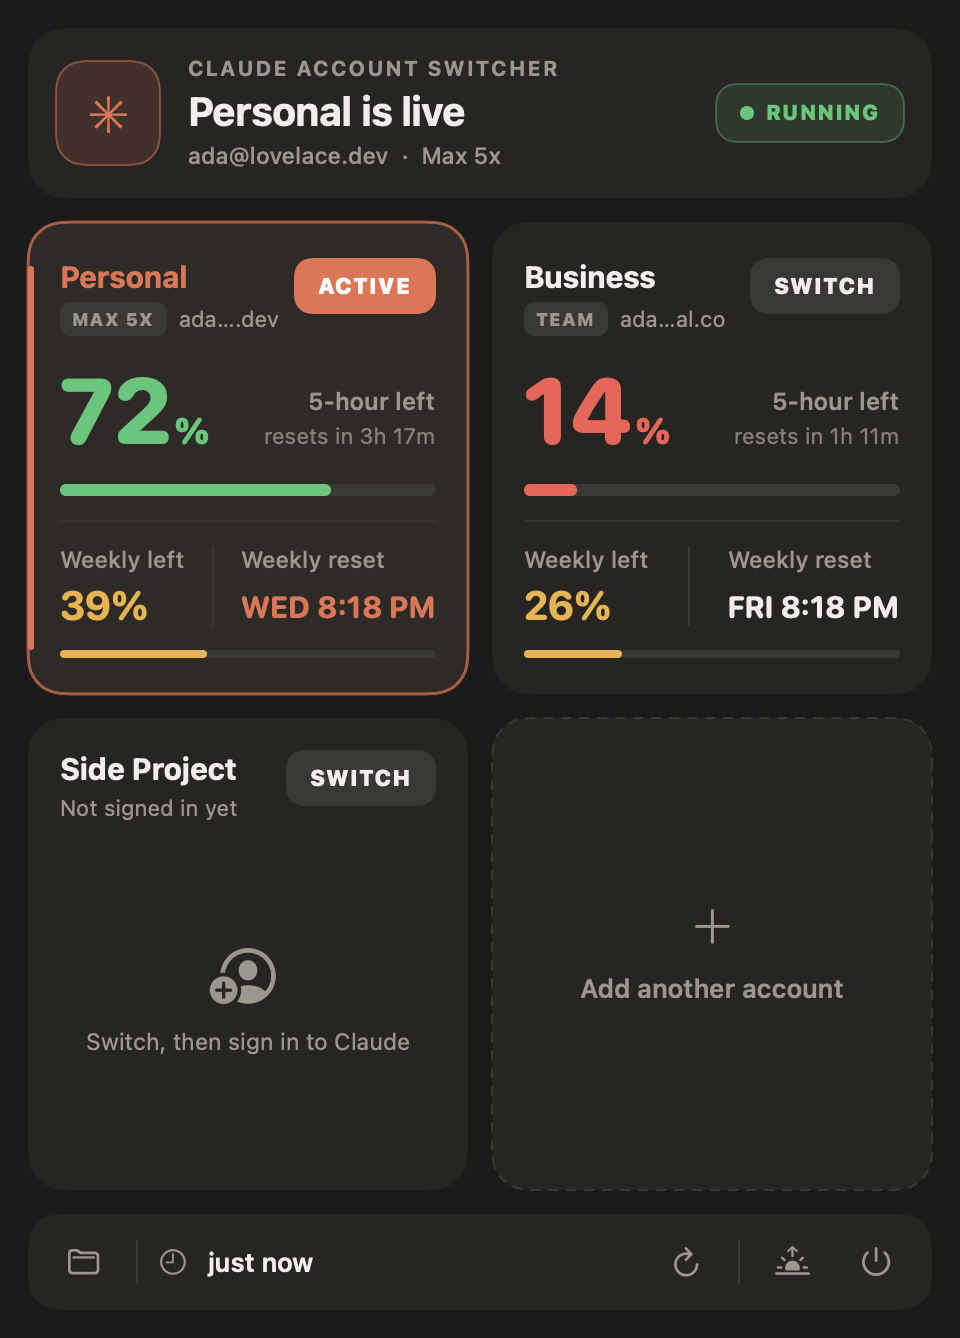
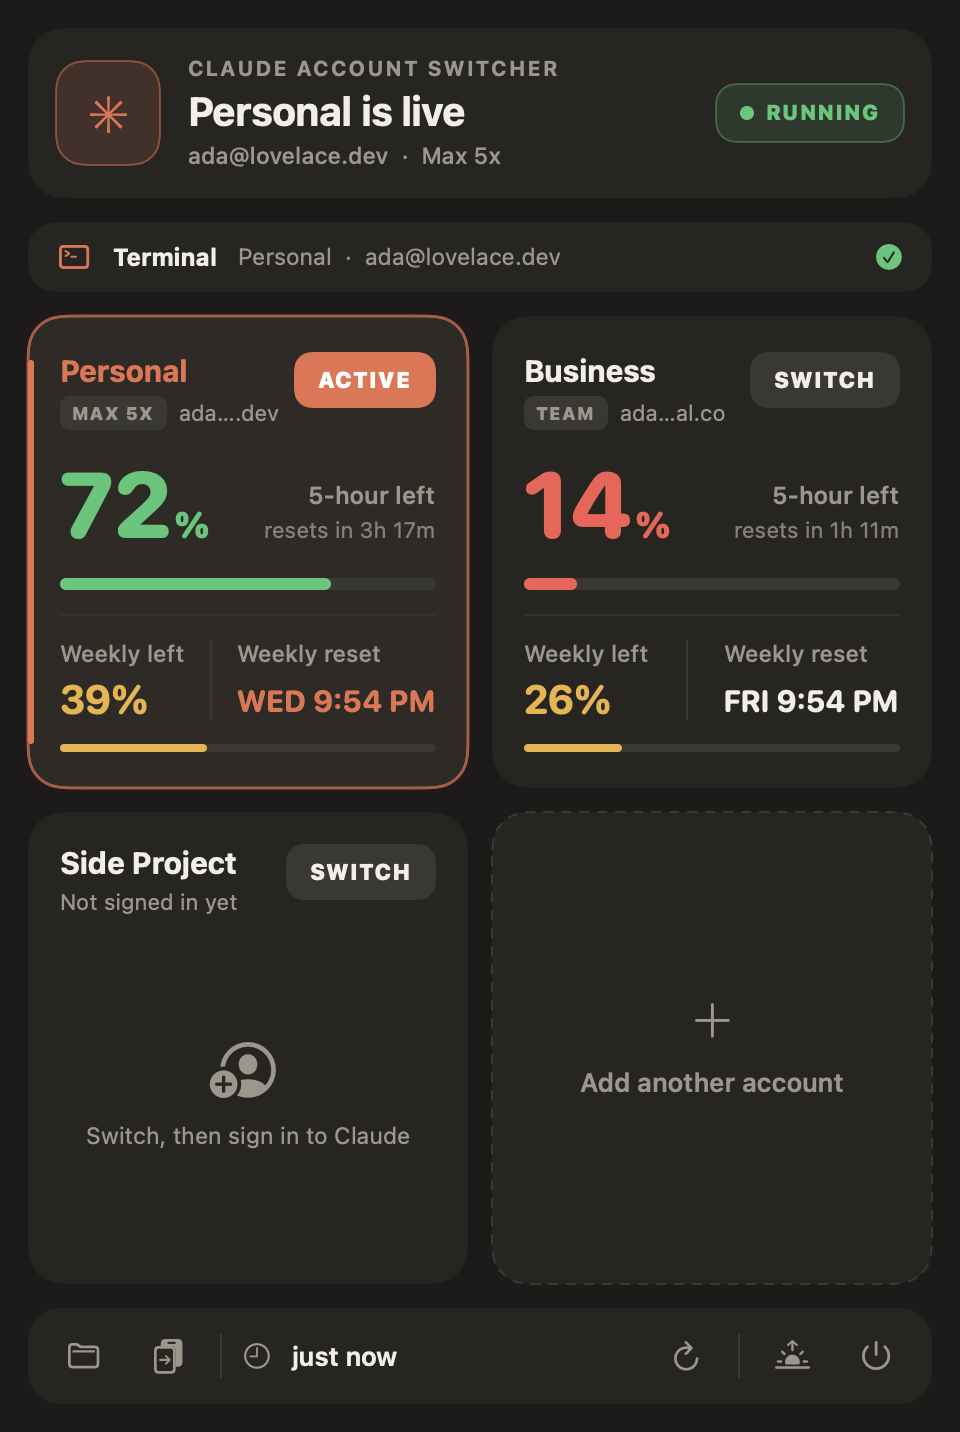
Switch the terminal's claude CLI login along with the desktop app
Park the CLI's claudeAiOauth (keychain) and oauthAccount (~/.claude.json)
per profile in our own keychain item and restore the target's on switch.
MCP server logins in the same keychain item stay shared. Before parking,
check the live login belongs to the profile being left so a still-running
session can't file the wrong account. Adds a terminal row to the panel.

diff --git a/main.swift b/main.swift
@@ -231,6 +231,8 @@ final class Store: ObservableObject {
     @Published var lastRefresh: Date?
     @Published var banner: String?
     @Published var openAtLogin = SMAppService.mainApp.status == .enabled
+    @Published var cliProfile: String?     // profile the terminal `claude` is logged in as
+    @Published var cliEmail: String?
     var onChange: (() -> Void)?
 
     /// Fake accounts for README screenshots — touches no files, keychain or network.
@@ -243,6 +245,8 @@ final class Store: ObservableObject {
                      weeklyOpus: nil, extraEnabled: false, fetchedAt: now)
         }
         current = "Personal"
+        cliProfile = "Personal"
+        cliEmail = "ada@lovelace.dev"
         claudeRunning = true
         lastRefresh = now
         profiles = [
@@ -307,6 +311,7 @@ final class Store: ObservableObject {
                 }
             }
         }
+        refreshCLI()
         lastRefresh = Date()
         onChange?()
     }
@@ -345,10 +350,63 @@ final class Store: ObservableObject {
             banner = "Switch failed: \(error.localizedDescription)"
             return
         }
+        busy = "Moving terminal login…"
+        do { try await switchCLI(to: target) } catch { banner = "Terminal not switched: \(error.localizedDescription)" }
         busy = "Opening Claude…"
         await launchClaude()
         reloadList()
         await refresh()
+    }
+
+    func refreshCLI() {
+        cliEmail = liveOauthAccount()?["emailAddress"] as? String
+        if let saved = (try? String(contentsOf: cliCurrentFile, encoding: .utf8))?
+            .trimmingCharacters(in: .whitespacesAndNewlines), !saved.isEmpty {
+            cliProfile = saved
+        } else {
+            // First run: work out which profile the terminal is on from its email.
+            cliProfile = profiles.first { $0.snapshot?.email != nil && $0.snapshot?.email == cliEmail }?.name
+                ?? (cliEmail == nil ? current : nil)
+            if let p = cliProfile { try? p.write(to: cliCurrentFile, atomically: true, encoding: .utf8) }
+        }
+    }
+
+    /// Parks the terminal's Claude login under its current profile and restores `target`'s
+    /// (or logs the terminal out if `target` has none yet, so `claude /login` can set it up).
+    func switchCLI(to target: String) async throws {
+        refreshCLI()
+        guard let cur = cliProfile else {
+            throw err("Couldn't tell which profile the terminal is logged in as (\(cliEmail ?? "unknown")).")
+        }
+        guard cur != target else { return }
+        var live = readLiveCLICreds() ?? [:]
+        if let oauth = live["claudeAiOauth"] as? [String: Any] {
+            // A still-running `claude` can re-save its old login after a switch. Make sure the
+            // login we're about to park really belongs to `cur` before filing it there.
+            let expected = profiles.first { $0.name == cur }?.snapshot?.email
+            if let tok = oauth["accessToken"] as? String, let expected,
+               let actual = (try? await getJSON("profile", tok))
+                   .flatMap({ ($0["account"] as? [String: Any])?["email"] as? String }),
+               actual != expected {
+                throw err("The terminal is logged in as \(actual), not \(cur) (\(expected)). Quit running `claude` sessions and try again.")
+            }
+            var parked: [String: Any] = ["claudeAiOauth": oauth]
+            parked["oauthAccount"] = liveOauthAccount()
+            try writeKeychain(service: switcherService, account: "cli-\(cur)", json: parked)
+        }
+        let restore = readKeychain(service: switcherService, account: "cli-\(target)")
+        live["claudeAiOauth"] = restore?["claudeAiOauth"]
+        try writeKeychain(service: cliService, account: NSUserName(), json: live)
+        try setLiveOauthAccount(restore?["oauthAccount"] as? [String: Any])
+        try target.write(to: cliCurrentFile, atomically: true, encoding: .utf8)
+        refreshCLI()
+    }
+
+    func moveTerminal(to target: String) async {
+        guard busy == nil else { return }
+        busy = "Moving terminal login…"
+        do { try await switchCLI(to: target) } catch { banner = "Terminal not switched: \(error.localizedDescription)" }
+        busy = nil
     }
 
     /// Copies threads into another profile. If that profile is live and Claude is running,
@@ -386,6 +444,66 @@ func launchClaude() async {
     if let url = NSWorkspace.shared.urlForApplication(withBundleIdentifier: bundleID) {
         _ = try? await NSWorkspace.shared.openApplication(at: url, configuration: .init())
     }
+}
+
+// MARK: - Terminal (Claude Code CLI) login
+//
+// The CLI keeps its login in the keychain item "Claude Code-credentials" (key `claudeAiOauth`,
+// next to MCP server logins under `mcpOAuth`, which stay shared) and the account details in
+// ~/.claude.json `oauthAccount`. Parked logins go in our own keychain item, one per profile.
+// Everything goes through /usr/bin/security, which is how the CLI itself reads the item.
+
+let cliService = "Claude Code-credentials"
+let switcherService = "Claude Switcher"
+let cliCurrentFile = parkDir.appendingPathComponent(".cli-current")
+let claudeJSON = URL(fileURLWithPath: NSHomeDirectory()).appendingPathComponent(".claude.json")
+
+@discardableResult
+func security(_ args: [String], stdin: String? = nil) -> (status: Int32, out: String) {
+    let p = Process()
+    p.executableURL = URL(fileURLWithPath: "/usr/bin/security")
+    p.arguments = args
+    let out = Pipe(), inp = Pipe()
+    p.standardOutput = out
+    p.standardError = Pipe()
+    if stdin != nil { p.standardInput = inp }
+    do { try p.run() } catch { return (-1, "") }
+    if let stdin { inp.fileHandleForWriting.write(Data(stdin.utf8)); try? inp.fileHandleForWriting.close() }
+    let data = out.fileHandleForReading.readDataToEndOfFile()
+    p.waitUntilExit()
+    return (p.terminationStatus, String(decoding: data, as: UTF8.self))
+}
+
+func readKeychain(service: String, account: String) -> [String: Any]? {
+    let r = security(["find-generic-password", "-s", service, "-a", account, "-w"])
+    guard r.status == 0 else { return nil }
+    return try? JSONSerialization.jsonObject(with: Data(r.out.trimmingCharacters(in: .newlines).utf8)) as? [String: Any]
+}
+
+func writeKeychain(service: String, account: String, json: [String: Any]) throws {
+    let hex = try JSONSerialization.data(withJSONObject: json).map { String(format: "%02x", $0) }.joined()
+    let acct = account.replacingOccurrences(of: "\"", with: "")
+    // -i reads the command from stdin so the secret never shows up in `ps`.
+    let r = security(["-i"], stdin: "add-generic-password -U -a \"\(acct)\" -s \"\(service)\" -X \(hex)\n")
+    guard r.status == 0, readKeychain(service: service, account: account) != nil else {
+        throw err("Couldn't save the login to the keychain (\(service)).")
+    }
+}
+
+func readLiveCLICreds() -> [String: Any]? { readKeychain(service: cliService, account: NSUserName()) }
+
+func liveOauthAccount() -> [String: Any]? {
+    ((try? Data(contentsOf: claudeJSON)).flatMap { try? JSONSerialization.jsonObject(with: $0) as? [String: Any] })?["oauthAccount"] as? [String: Any]
+}
+
+func setLiveOauthAccount(_ acct: [String: Any]?) throws {
+    guard var j = try JSONSerialization.jsonObject(with: Data(contentsOf: claudeJSON)) as? [String: Any] else {
+        throw err("Couldn't read ~/.claude.json")
+    }
+    j["oauthAccount"] = acct
+    try JSONSerialization.data(withJSONObject: j, options: [.prettyPrinted, .withoutEscapingSlashes])
+        .write(to: claudeJSON, options: .atomic)
+    try fm.setAttributes([.posixPermissions: 0o600], ofItemAtPath: claudeJSON.path)
 }
 
 // MARK: - Claude Code threads
@@ -536,6 +654,34 @@ struct Header: View {
     }
 }
 
+struct TerminalStrip: View {
+    @ObservedObject var store: Store
+    @State private var hover = false
+    var body: some View {
+        let mismatch = store.cliProfile != store.current
+        HStack(spacing: 10) {
+            Image(systemName: "terminal").font(.system(size: 13, weight: .semibold)).foregroundColor(.claude)
+            Text("Terminal").font(.system(size: 12, weight: .bold)).foregroundColor(.txt)
+            Text(store.cliEmail.map { "\(store.cliProfile ?? "?")  ·  \($0)" }
+                 ?? "\(store.cliProfile ?? "?")  ·  not logged in, run claude /login")
+                .font(.system(size: 11.5)).foregroundColor(.sub).lineLimit(1).truncationMode(.middle)
+            Spacer(minLength: 6)
+            if mismatch {
+                Button { Task { await store.moveTerminal(to: store.current) } } label: {
+                    Text("MOVE TO \(store.current.uppercased())").font(.system(size: 10, weight: .heavy)).tracking(0.5)
+                        .padding(.horizontal, 9).padding(.vertical, 5)
+                        .foregroundColor(.white)
+                        .background(RoundedRectangle(cornerRadius: 7).fill(hover ? Color.claude.opacity(0.85) : .claude))
+                }.buttonStyle(.plain).disabled(store.busy != nil).onHover { hover = $0 }
+            } else {
+                Image(systemName: "checkmark.circle.fill").foregroundColor(.good).help("Terminal matches the desktop app")
+            }
+        }
+        .padding(.horizontal, 14).padding(.vertical, 10)
+        .background(RoundedRectangle(cornerRadius: 14).fill(Color.card))
+    }
+}
+
 struct ProfileCard: View {
     let p: Profile
     let active: Bool
@@ -675,6 +821,7 @@ struct Panel: View {
     var body: some View {
         VStack(spacing: 12) {
             Header(store: store)
+            TerminalStrip(store: store)
             if let b = store.banner {
                 Label(b, systemImage: "exclamationmark.triangle.fill").font(.system(size: 11.5))
                     .foregroundColor(.warn).frame(maxWidth: .infinity, alignment: .leading)

diff --git a/README.md b/README.md
@@ -1,12 +1,13 @@
 # Claude Switcher
 
-A tiny macOS menu bar app for people with more than one Claude account (say, Personal and Business). One click swaps the Claude desktop app between accounts, and a panel shows how much usage each account has left before you pick one.
+A tiny macOS menu bar app for people with more than one Claude account (say, Personal and Business). One click swaps both the Claude desktop app and the `claude` CLI in your terminal between accounts, and a panel shows how much usage each account has left before you pick one.
 
 <p align="center"><img src="docs/panel.png" width="480" alt="Claude Switcher panel"></p>
 
 ## What it does
 
 - **Switch accounts in one click.** Each account keeps its own login, settings and Claude Code threads. No signing out and back in.
+- **Terminal follows along.** Switching also moves the `claude` CLI's login, so desktop and terminal are on the same account. The terminal row shows which account the CLI is on and offers to move it if they ever differ.
 - **See your limits at a glance.** For every account: 5-hour session left, weekly limit left, and when each one resets.
 - **Menu bar readout.** The icon shows the active account and its remaining session, e.g. `✦ P · 72%`.
 - **Add as many accounts as you like.** Click "Add another account", give it a name, switch to it and sign in.
@@ -55,6 +56,17 @@ Switching quits Claude, renames the folders (instant, even for many GB) and reop
 
 Safety rails: if Claude doesn't quit within 15 seconds, nothing is moved. It never overwrites a parked profile that has data in it.
 
+## How the terminal switch works
+
+The `claude` CLI keeps its login in two places: the keychain item **Claude Code-credentials** (the `claudeAiOauth` entry) and `oauthAccount` in `~/.claude.json`. When you switch, Claude Switcher:
+
+1. Saves the terminal's current login to its own keychain item (**Claude Switcher**, one entry per profile).
+2. Puts the target profile's saved login in its place. If that profile has never been used in the terminal, the CLI is logged out instead: run `claude /login` once with that account and it's remembered from then on.
+
+Only the Claude login moves. MCP server logins (Figma, Notion, Linear…) stored in the same keychain item stay put and are shared by every profile, as are your projects and history in `~/.claude`.
+
+**Restart running `claude` sessions after switching.** A session that was already open keeps using the old account and may save its login back. Before filing a login away, the switcher checks that it really belongs to the profile you're leaving, and stops with a warning if not.
+
 ## How copying threads works
 
 Each Claude Code thread in the desktop app is a small JSON file in `claude-code-sessions/<account>/<org>/` inside the profile. The conversation itself lives in `~/.claude/projects`, which every account shares, so copying that JSON file is enough for the other account to resume the thread. A few account-specific fields (connectors, remote-control links, armed scheduled tasks) are stripped on copy. Threads that already exist in the destination are skipped, and nothing is deleted from the source.
@@ -68,14 +80,14 @@ Claude Desktop stores each account's login token in that account's `config.json`
 ## Caveats
 
 - **Unofficial.** This isn't made by or affiliated with Anthropic. The usage endpoint is undocumented and could change; if it does, cards fall back to the last known numbers ("as of 2h ago").
-- **Desktop app only.** The `claude` CLI has its own login and isn't switched.
+- **Terminal sessions don't switch mid-flight.** Open `claude` sessions stay on the old account until restarted.
 - **Switching quits Claude.** Let running sessions finish first.
 - Claude Code transcripts live in the shared `~/.claude/projects`. Only the desktop thread lists are split per account, which is what makes copying threads possible.
 - The app is ad-hoc signed, so after rebuilding you'll get the keychain prompt again.
 
 ## Uninstall
 
-Quit it from the panel (power button), turn off "open at login" first if you enabled it, then delete `/Applications/Claude Switcher.app`. To merge back to one account, switch to the one you want to keep and delete `~/Library/Application Support/Claude-Profiles`.
+Turn off "open at login" (sunrise button), quit it from the panel (power button), then delete `/Applications/Claude Switcher.app`. Saved terminal logins live in Keychain Access under **Claude Switcher** and can be deleted there. To merge back to one account, switch to the one you want to keep and delete `~/Library/Application Support/Claude-Profiles`.
 
 ## Development
 
